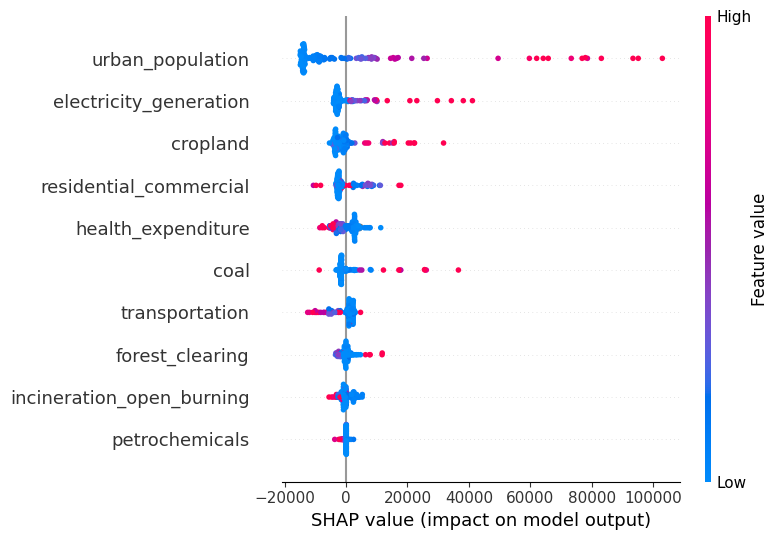
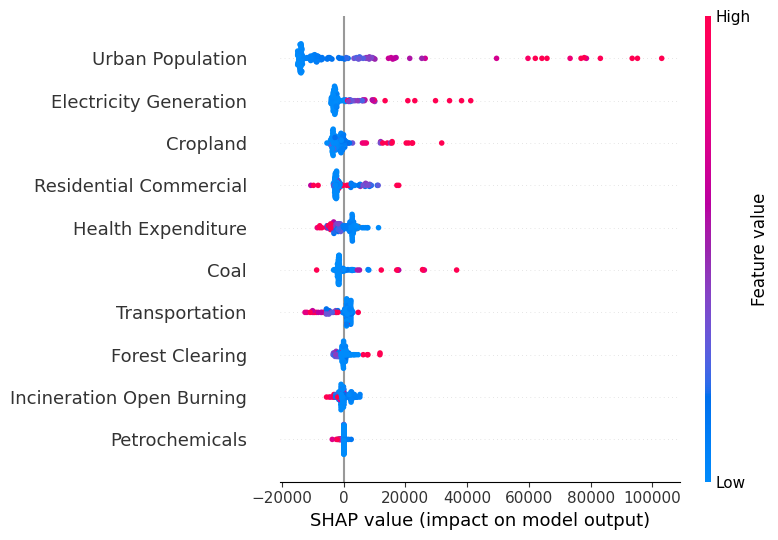
update beeswarm label

diff --git a/launch_coding_test.py b/launch_coding_test.py
@@ -332,17 +332,21 @@ def train_model(df):
     return xgb_model, X_train_val, y_train_val, train_r2, test_r2
 
 def generate_beeswarm_plot(model, X_train_val):
+    # Rename columns: replace underscores with spaces and capitalize
+    X_train_val = X_train_val.rename(columns=lambda x: x.replace('_', ' ').title())
+
+    # Generate SHAP values
     explainer = shap.Explainer(model, X_train_val)
     shap_values = explainer(X_train_val)
-    
+
     # Generate SHAP plot without displaying it
     shap.summary_plot(shap_values, X_train_val, plot_type="dot", show=False)
-    
+
     # Save the current figure generated by SHAP
     fig = plt.gcf()  # Get the current figure
     fig.savefig("beeswarm_plot.png", bbox_inches='tight')  
-    
-    plt.close(fig) 
+
+    plt.close(fig)
 
 def generate_html_file(merged_data, train_r2, test_r2):
     merged_data['Country Code'] = merged_data['Country Code'].str.strip()  # Ensure clean data
